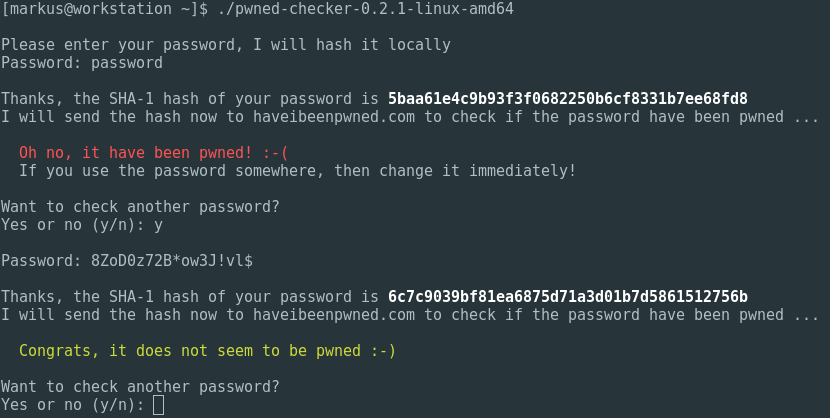
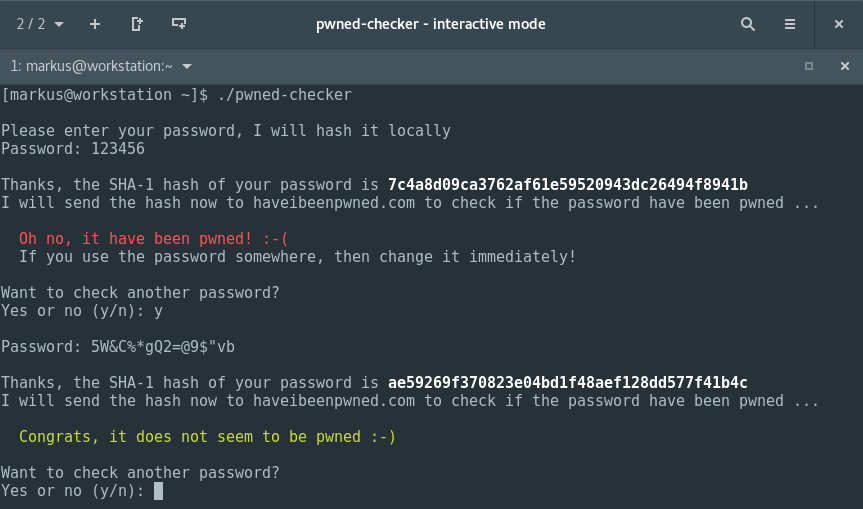
screenshot update

diff --git a/README.md b/README.md
@@ -4,4 +4,4 @@ It hashes your password locally and then send it to the server.
 
 [**Download**](https://github.com/morphy2k/pwned-checker/releases)
 
-![Screenshot](screenshot.png?raw=true "Example on Linux Bash")
+![Screenshot](screenshot.png?raw=true "Interactive mode on Bash")
